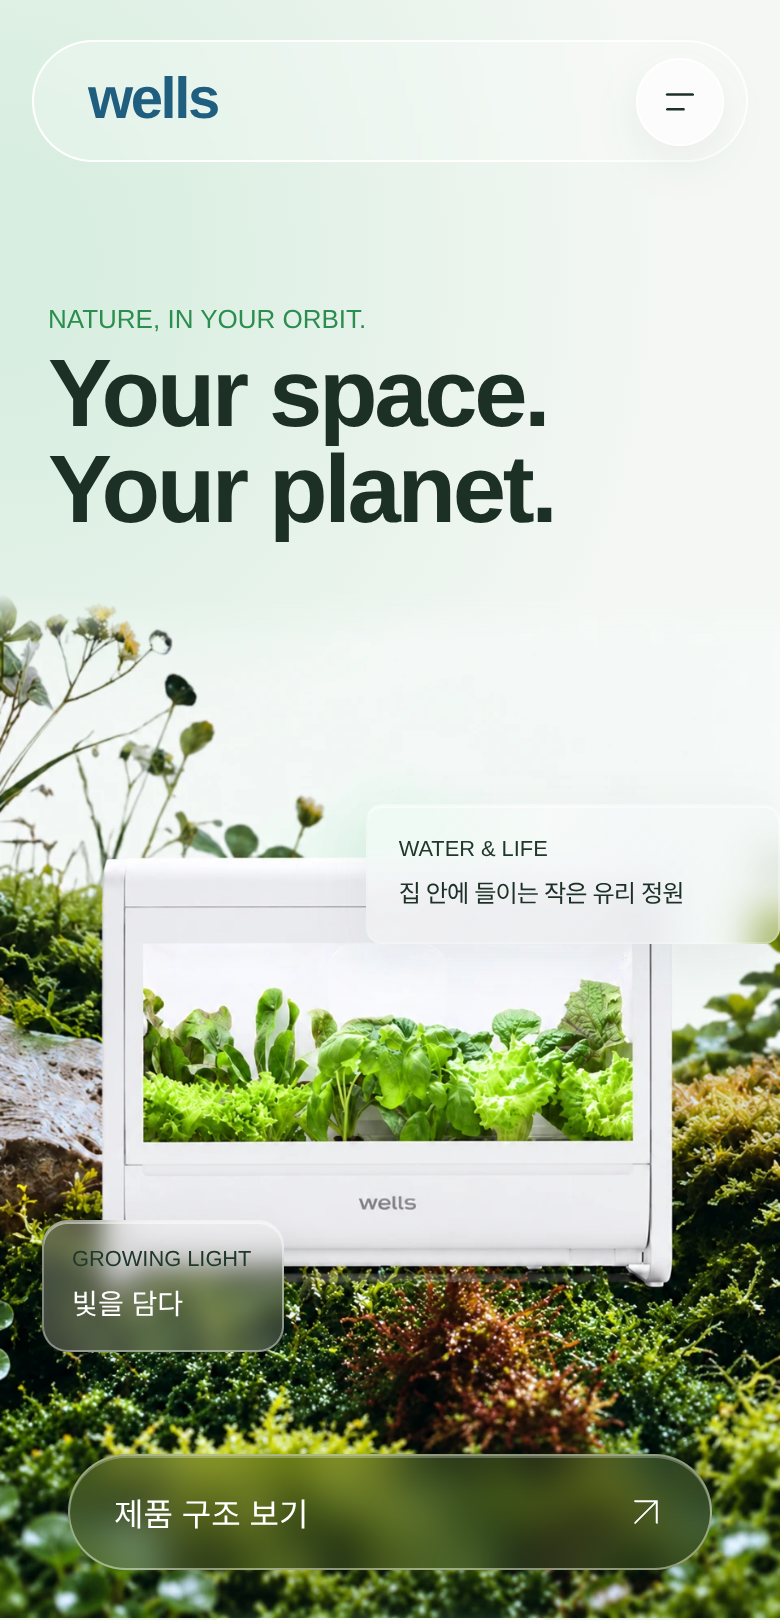
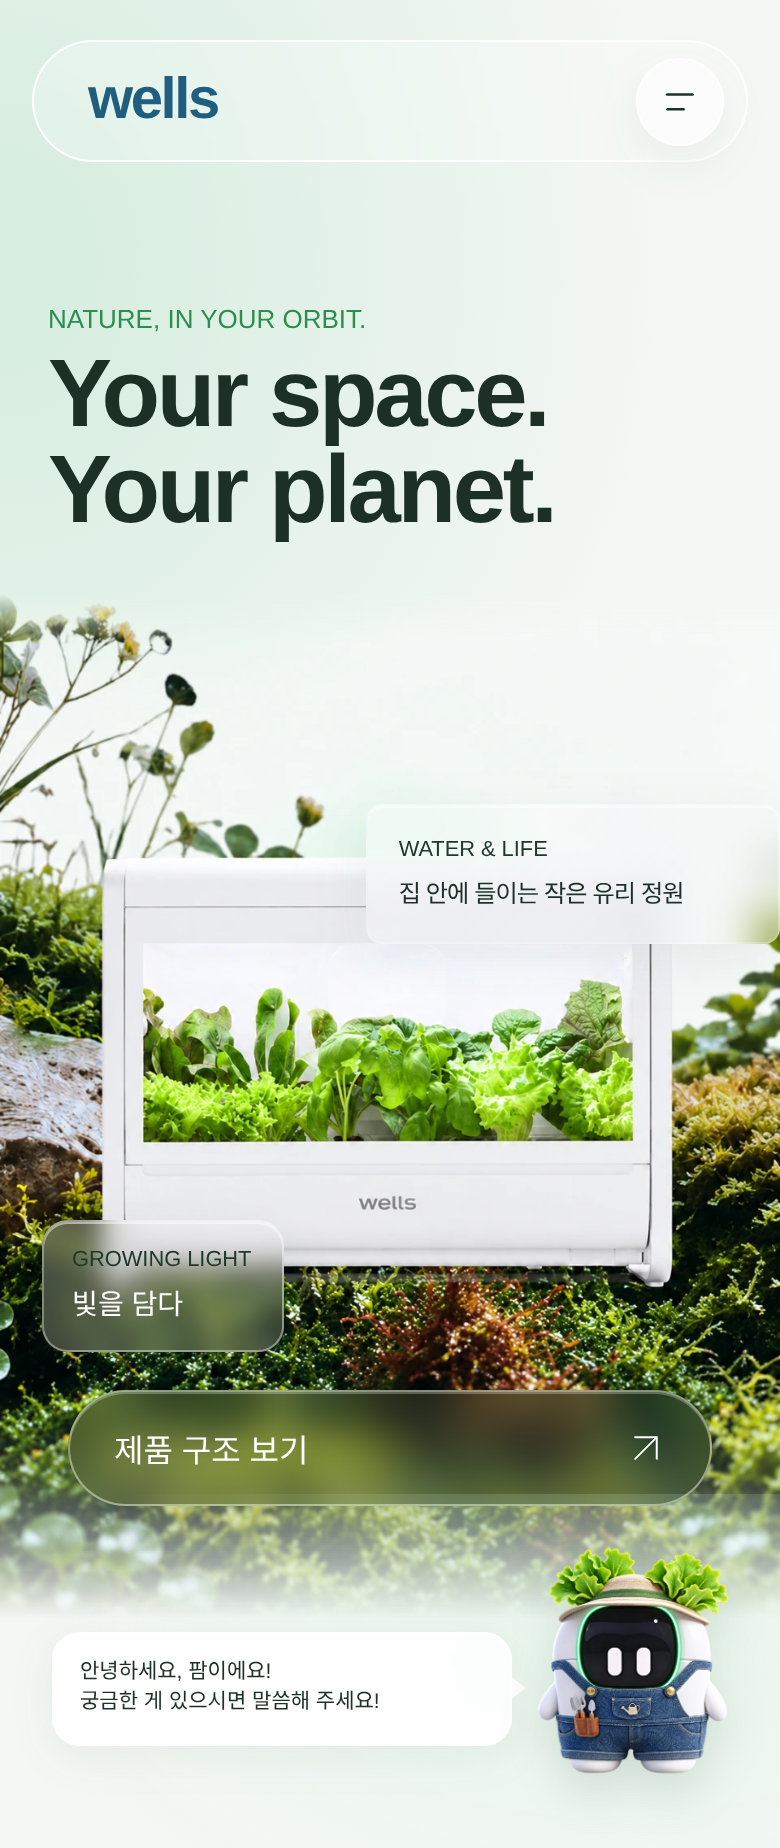
Blend landing sections and bring Fami into the foreground

diff --git a/src/style.css b/src/style.css
@@ -172,8 +172,8 @@ p {
   width: 100%;
   height: 100%;
   object-fit: cover;
-  -webkit-mask-image: linear-gradient(to bottom, transparent, #000 24px);
-  mask-image: linear-gradient(to bottom, transparent, #000 24px);
+  -webkit-mask-image: linear-gradient(to bottom, transparent, #000 24px, #000 calc(100% - 112px), #000000d9 calc(100% - 72px), #00000061 calc(100% - 28px), transparent 100%);
+  mask-image: linear-gradient(to bottom, transparent, #000 24px, #000 calc(100% - 112px), #000000d9 calc(100% - 72px), #00000061 calc(100% - 28px), transparent 100%);
 }
 .hero-label,
 .light-label {
@@ -263,7 +263,7 @@ p {
   position: absolute;
   z-index: 2;
   left: 34px;
-  bottom: 24px;
+  bottom: 56px;
   width: calc(100% - 68px);
   margin: 0;
   background: linear-gradient(120deg, #8d9b5b38, #152e256b);
@@ -275,46 +275,76 @@ p {
   font-weight: 500;
 }
 .assistant-strip {
+  position: relative;
+  z-index: 4;
+  isolation: isolate;
   display: flex;
   align-items: flex-start;
   justify-content: flex-end;
-  gap: 4px;
-  padding: 0 24px;
-  min-height: 132px;
-  margin-top: 0;
-  position: relative;
+  gap: 10px;
+  padding: 0 24px 12px;
+  min-height: 152px;
+  margin-top: -38px;
+}
+.assistant-strip::before {
+  content: "";
+  position: absolute;
+  z-index: -1;
+  inset: -24px 0 -60px;
+  background: radial-gradient(ellipse at 78% 35%, #d7f3de66, transparent 68%);
+  pointer-events: none;
 }
 .assistant-message {
   position: relative;
   z-index: 1;
+  flex: 1;
+  max-width: 230px;
+  align-self: center;
+  margin-top: 6px;
   text-align: left;
-  background: white;
-  border-radius: 6px;
-  font-size: 10px;
-  line-height: 1.3;
-  padding: 10px 14px;
-  box-shadow: 0 1px 9px #8ee58060;
+  background: #ffffffdf;
+  border: 1px solid #ffffffeb;
+  border-radius: 14px;
+  font-size: 10.5px;
+  line-height: 1.5;
+  padding: 12px 13px;
+  box-shadow: 0 5px 20px #486a4212, inset 0 1px 0 #fff;
+  -webkit-backdrop-filter: blur(10px);
+  backdrop-filter: blur(10px);
 }
-.assistant-message:after {
+.assistant-message::after {
   content: "";
   position: absolute;
-  bottom: -9px;
-  right: 15px;
-  border-width: 10px 0 0 13px;
+  top: calc(50% - 6px);
+  right: -8px;
+  border-width: 6px 0 6px 8px;
   border-style: solid;
-  border-color: white transparent transparent transparent;
+  border-color: transparent transparent transparent #ffffffdf;
 }
 .fami-button {
-  width: 86px;
-  padding: 12px 0 0;
+  position: relative;
+  z-index: 2;
+  flex: 0 0 100px;
+  width: 100px;
+  padding: 0;
   background: transparent;
+  filter: drop-shadow(0 10px 10px #214c2f24);
 }
 .fami-button img {
-  width: 86px;
+  width: 100%;
+  height: auto;
+  display: block;
 }
+@media (max-width: 359px) {
+  .assistant-strip { padding-inline: 20px; gap: 8px; }
+  .light-label { top: 56%; min-height: 60px; }
+  .fami-button { flex-basis: 90px; width: 90px; }
+  .assistant-message { padding: 10px 11px; font-size: 10px; }
+}
+
 .products {
   text-align: center;
-  padding-top: 8px;
+  padding-top: 20px;
   padding-bottom: 52px;
 }
 .products h2 {
@@ -396,7 +426,7 @@ p {
 .steps {
   padding-top: 36px;
   padding-bottom: 86px;
-  background: linear-gradient(#f4f7f4 40%, #dcebe1);
+  background: linear-gradient(#f4f7f4, #e0eee4 65%, #f4f7f4);
 }
 .step-card {
   width: 100%;
@@ -531,6 +561,15 @@ p {
   pointer-events: none;
   mix-blend-mode: normal;
 }
+.growing-system::after {
+  content: "";
+  position: absolute;
+  z-index: 1;
+  inset: auto 0 0;
+  height: 80px;
+  background: linear-gradient(transparent, #f4f7f4);
+  pointer-events: none;
+}
 .operation {
   padding-top: 66px;
   padding-bottom: 78px;
@@ -637,6 +676,7 @@ p {
   color: #27894d;
 }
 .everyday {
+  background: linear-gradient(#f4f7f4, #fff);
   text-align: center;
   padding-top: 0;
   padding-bottom: 55px;
@@ -1452,10 +1492,6 @@ p {
     scroll-behavior: auto !important;
   }
 }
-.assistant-strip {
-  margin-top: 0;
-}
-
 .structure {
   padding: 8px 0 0;
   min-height: 0;
@@ -1476,7 +1512,7 @@ p {
   overflow: hidden;
   display: flex;
   flex-direction: column;
-  background: radial-gradient(ellipse at 55% 45%, #fff, #f1f5f5 48%, #e6edef);
+  background: radial-gradient(ellipse at 55% 45%, #fff, #f1f5f2 48%, #f4f7f4);
 }
 .model-stage {
   position: relative;

diff --git a/src/App.jsx b/src/App.jsx
@@ -338,12 +338,18 @@ export default function App() {
       setSheet(location.pathname.slice(1));
     else setSheet(null);
     const section = new URLSearchParams(location.search).get("section");
+    let scrollFrame;
     if (location.pathname === "/" && Object.values(sectionPaths).includes(section)) {
-      requestAnimationFrame(() => document.getElementById(section)?.scrollIntoView({ behavior: "instant" }));
+      const reduceMotion = window.matchMedia("(prefers-reduced-motion: reduce)").matches;
+      const behavior = location.state?.smoothScroll && !reduceMotion ? "smooth" : "instant";
+      scrollFrame = requestAnimationFrame(() => document.getElementById(section)?.scrollIntoView({ behavior }));
     } else window.scrollTo({ top: 0, behavior: "instant" });
     const label = ({ "/ai": "팜이", "/chat": "팜이 상담", "/login": "로그인", "/login/complete": "로그인 완료", "/support": "고객센터", "/support/faq": "자주 묻는 질문", "/support/inquiries": "1:1 문의", "/register": "미니팜 등록", "/signup": "회원가입 안내", "/reset-password": "비밀번호 안내" })[location.pathname] || pages.find(([path]) => path === location.pathname)?.[1] || "홈";
     document.title = `${label} · Mini Farm — 비공식 디자인 데모`;
-  }, [location.pathname, location.search, location.hash]);
+    return () => {
+      if (scrollFrame !== undefined) cancelAnimationFrame(scrollFrame);
+    };
+  }, [location.pathname, location.search, location.hash, location.key]);
   const openControl = (name = "power") => {
     setTab(name);
     setSheet("control");
@@ -362,10 +368,7 @@ export default function App() {
     setSheet(null);
     setNotice(null);
     const section = sectionPaths[path];
-    navigate(section ? `/?section=${section}` : path);
-    if (section && location.pathname === "/") {
-      requestAnimationFrame(() => document.getElementById(section)?.scrollIntoView({ behavior: "instant" }));
-    }
+    navigate(section ? `/?section=${section}` : path, { state: { smoothScroll: !!section } });
   };
   const landing = <Landing onNavigate={navigatePage} openControl={openControl} info={info}
     onSelect={(mode) => setDevice((d) => ({ ...d, mode }))} />;

diff --git a/src/pages/Inside.jsx b/src/pages/Inside.jsx
@@ -7,7 +7,7 @@ export default function Inside({ onChat }) {
     <>
         <section className="assistant-strip" data-preview="assistant">
           <button className="assistant-message" onClick={() => onChat()}>
-            안녕하세요 팜이예요!
+            안녕하세요, 팜이에요!
             <br />
             궁금한 게 있으시면 말씀해 주세요!
           </button>
@@ -16,7 +16,7 @@ export default function Inside({ onChat }) {
             aria-label="AI 팜이에게 상담하기"
             onClick={() => onChat()}
           >
-            <img src={asset + "fami.webp"} alt="팜이" />
+            <img src={asset + "fami.webp"} alt="팜이" width="100" height="121" />
           </button>
         </section>
         <section

diff --git a/docs/preview/interactive/README.md b/docs/preview/interactive/README.md
@@ -25,6 +25,7 @@
 | 첨부 아이콘 적용 고객센터·푸터 | [보기](17-customer-footer-icons.png) |
 | 첨부 아이콘 적용 제품 기능 | [보기](18-reference-feature-icons.png) |
 | 떠다니는 글라스 박스와 첫 화면 | [보기](19-floating-glass-hero.png) |
+| 정원→팜이→제품 소개 연결 | [보기](20-seamless-fami-transition.png) |
 
 ## 고객센터
 
@@ -50,3 +51,6 @@ FAQ 검색·결과 없음·초기화·펼치기, 문의 작성·새로고침 유
 
 
 히어로 이미지는 박혀 있던 문구를 제거한 배경으로 분리했습니다. `WATER & LIFE`와 `GROWING LIGHT`는 실제 HTML 글라스 카드이며 배경 블러·반투명 그라데이션·얇은 밝은 테두리를 적용했습니다. 서로 다른 주기로 8px 범위 안에서 떠다니며, 동작 줄이기 설정에서는 멈춥니다. 제품 구조 버튼도 정원 위의 글라스 버튼으로 배치했습니다. `tests/hero-glass.mjs`에서 두 카드의 블러와 실제 위치 변화, 동작 줄이기, 320/390/480/768px 경계, 문구 및 제품 구조 이동을 검증합니다. 캡처는 정지 화면이므로 움직임은 사이트에서 확인할 수 있습니다.
+
+
+정원 하단을 공통 배경으로 페이드시키고 팜이를 다음 섹션 경계 위의 전경 레이어로 배치했습니다. 팜이와 말풍선은 상담 화면에 연결됩니다. 글라스 버튼과 캐릭터는 겹치지 않습니다. 3D·사용 단계·식물 소개·고객센터로 이어지는 배경 색상도 정리했습니다. 메뉴와 CTA의 섹션 이동은 부드러운 스크롤을 사용하며 동작 줄이기에서는 즉시 이동합니다. `tests/landing-flow.mjs`에서 320/390/480/768px 겹침 경계, 팜이 클릭 가능 여부, 상담 연결, 실제 스크롤 진행과 목적지 도착을 확인합니다.

diff --git a/README.md b/README.md
@@ -65,3 +65,5 @@ node tests/ui-smoke.mjs
 이미지 세부 배치 검증은 같은 독립 Chromium에서 `node tests/image-layout.mjs`로 실행합니다(기본 앱 주소는 프로덕션 미리보기 `http://127.0.0.1:5174/wells/`, 개발 서버 검증 시 `APP_URL` 지정). 320/390/480/768/1440px의 실제 뷰포트 너비, 제품 사진과 탭·설명 사이 경계, 메뉴·고객센터 캐릭터의 카드 내 배치와 글자 겹침, 실제 알파 투명도 및 흰 캐릭터 디테일 보존을 확인합니다. 캐릭터는 투명 WebP 자산을 사용하며 CSS 혼합 효과로 배경을 가리지 않습니다.
 
 히어로 글라스와 부유 모션은 독립 Chromium에서 `node tests/hero-glass.mjs`로 검증합니다. `APP_URL`, `CDP_URL`, `PREVIEW_DIR` 설정은 UI 검증과 같으며 기본 앱 주소는 개발 서버입니다. 문구가 박힌 원본 대신 `hero-garden-clean.webp` 위에 실제 HTML 카드를 렌더링합니다. 사용자 기기의 동작 줄이기 설정을 따릅니다.
+
+섹션 연결은 `node tests/landing-flow.mjs`로 검증합니다(`APP_URL`, `CDP_URL`, `PREVIEW_DIR` 사용). 정원과 다음 섹션 사이의 팜이 전경 배치, CTA 겹침 방지, 팜이/말풍선 상담 이동, 부드러운 스크롤과 동일 목적지 재이동 및 동작 줄이기 지원을 검사합니다.
